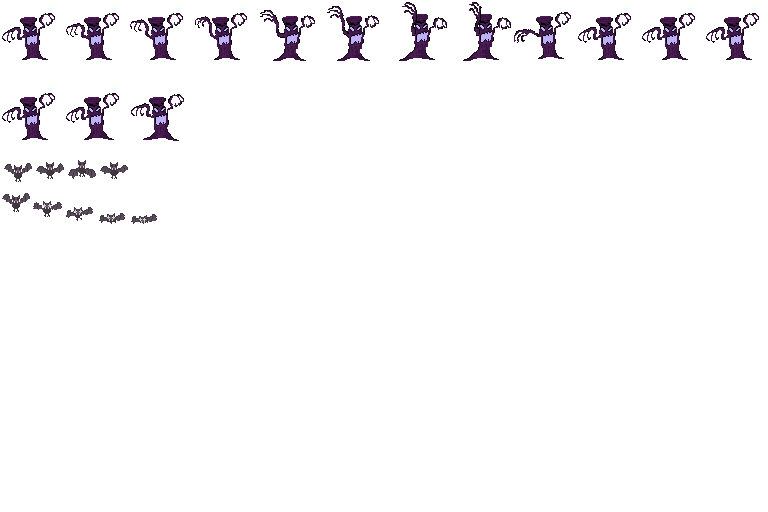
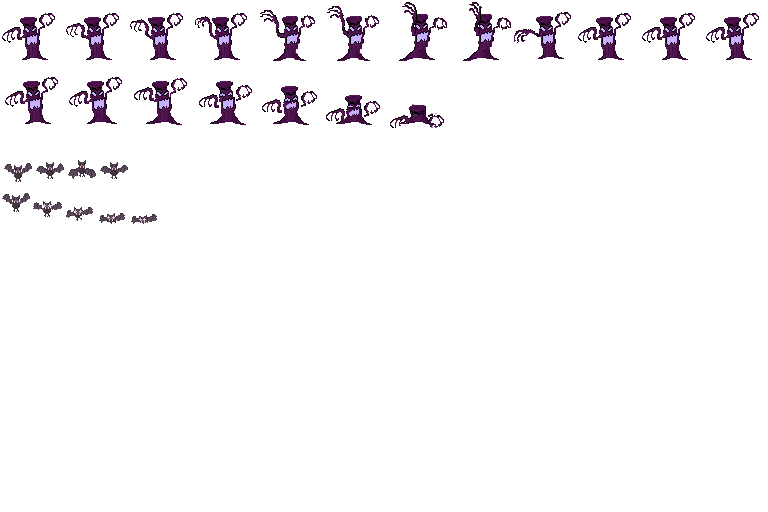
he metido el arbol

Changed region(s): [[0.0, 0.1562, 0.4062, 0.2812], [0.4375, 0.1875, 0.5938, 0.25]]

diff --git a/Game/Source/Tree.cpp b/Game/Source/Tree.cpp
@@ -1,0 +1,282 @@
+#include "Tree.h"
+#include "App.h"
+#include "Textures.h"
+#include "Audio.h"
+#include "Input.h"
+#include "Render.h"
+#include "Scene.h"
+#include "Log.h"
+#include "Point.h"
+#include "Physics.h"
+#include "Animation.h"
+#include "Pathfinding.h"
+#include "Player.h"
+#include "Map.h"
+#include "Entity.h"
+
+Tree::Tree() : Entity(EntityType::TREE)
+{
+	name.Create("tree");
+	WalkAnimIzq.PushBack({ 0, 0, 25, 25 });
+	WalkAnimIzq.PushBack({ 25, 0, 25, 25 });
+	WalkAnimIzq.PushBack({ 50, 0, 25, 25 });
+	WalkAnimIzq.PushBack({ 75, 0, 25, 25 });
+	WalkAnimIzq.PushBack({ 100, 0, 25, 25 });
+	WalkAnimIzq.PushBack({ 125, 0, 25, 25 });
+	WalkAnimIzq.PushBack({ 150, 0, 25, 25 });
+	WalkAnimIzq.PushBack({ 175, 0, 25, 25 });
+	WalkAnimIzq.speed = 0.3f;
+	WalkAnimIzq.loop = true;
+
+	WalkAnimDer.PushBack({ 175, 25, 25, 25 });
+	WalkAnimDer.PushBack({ 150, 25, 25, 25 });
+	WalkAnimDer.PushBack({ 125, 25, 25, 25 });	
+	WalkAnimDer.PushBack({ 100, 25, 25, 25 });
+	WalkAnimDer.PushBack({ 75, 25, 25, 25 });
+	WalkAnimDer.PushBack({ 50, 25, 25, 25 });	
+	WalkAnimDer.PushBack({ 25, 25, 25, 25 });
+	WalkAnimDer.PushBack({ 0, 25, 25, 25 });
+	WalkAnimDer.speed = 0.3f;
+	WalkAnimDer.loop = true;
+	
+	IdleAnimDer.PushBack({ 150, 100, 25, 25 });
+	IdleAnimDer.speed = 0.3f;
+	IdleAnimDer.loop = true;
+	IdleAnimIzq.PushBack({ 175, 100, 25, 25 });
+	IdleAnimIzq.speed = 0.3f;
+	IdleAnimIzq.loop = true;
+
+	AtackAnimIzq.PushBack({ 0, 50, 25, 25 });
+	AtackAnimIzq.PushBack({ 25, 50, 25, 25 });
+	AtackAnimIzq.PushBack({ 50, 50, 25, 25 });
+	AtackAnimIzq.PushBack({ 75, 50, 25, 25 });
+	AtackAnimIzq.PushBack({ 100, 50, 25, 25 });	
+	AtackAnimIzq.PushBack({ 125, 50, 25, 25 });
+	AtackAnimIzq.PushBack({ 150, 50, 25, 25 });
+	AtackAnimIzq.PushBack({ 175, 50, 25, 25 });
+	AtackAnimIzq.speed = 0.3f;
+	AtackAnimIzq.loop = false;
+
+	AtackAnimDer.PushBack({ 175, 75, 25, 25 });
+	AtackAnimDer.PushBack({ 150, 75, 25, 25 });
+	AtackAnimDer.PushBack({ 125, 75, 25, 25 });
+	AtackAnimDer.PushBack({ 100, 75, 25, 25 });	
+	AtackAnimDer.PushBack({ 75, 75, 25, 25 });	
+	AtackAnimDer.PushBack({ 50, 75, 25, 25 });
+	AtackAnimDer.PushBack({ 25, 75, 25, 25 });
+	AtackAnimDer.PushBack({ 0,  75, 25, 25 });
+	AtackAnimDer.speed = 0.3f;
+	AtackAnimDer.loop = false;
+
+	DeathAnim.PushBack({ 0, 100, 25, 25 });
+	DeathAnim.PushBack({ 25, 100, 25, 25 });
+	DeathAnim.PushBack({ 50, 100, 25, 25 });
+	DeathAnim.PushBack({ 75, 100, 30, 25 });
+	DeathAnim.PushBack({ 105, 100, 25, 25 });
+	DeathAnim.speed = 0.3f;
+	DeathAnim.loop = false;
+}
+
+Tree::~Tree() {
+
+}
+
+bool Tree::Awake() {
+
+
+	
+PathFinding path;
+	position.x = parameters.attribute("x").as_int();
+	position.y = parameters.attribute("y").as_int();
+	texturePath = parameters.attribute("texturepath").as_string();
+	currentAnimation = &IdleAnimDer;
+
+	return true;
+}
+
+bool Tree::Start() {
+
+	//initilize textures
+	texture = app->tex->Load(texturePath);
+	camino = app->tex->Load("Assets/Textures/camino.png");
+	torrentesound = app->audio->LoadFx("Assets/Audio/Fx/torrente.wav");
+	torrentesound2 = app->audio->LoadFx("Assets/Audio/Fx/punchtorrente.wav");
+	
+	
+
+	hp = 10;
+	//texture = app->tex->Load("Assets/personajes/Spritesheet Parca/parca.png");
+
+	pbody = app->physics->CreateCircle(position.x, position.y, 8, bodyType::DYNAMIC);
+	pbody->listener = this;
+	pbody->ctype = ColliderType::ENEMY;
+
+	
+	//pickCoinFxId = app->audio->LoadFx("Assets/Audio/Fx/retro-video-game-coin-pickup-38299.ogg");
+
+
+	return true;
+}
+
+
+bool Tree::Update(float dt) {
+	movX = 0;
+	b2Vec2 vel;
+	vel.y = -GRAVITY_Y - 25.2f;
+
+	if (app->scene->player->IsDeath == true) {
+		IsDeath = false;
+		pbody->ctype = ColliderType::ENEMY;
+	}
+
+	if (IsDeath == true) {
+		currentAnimation = &DeathAnim;
+		pbody->ctype = ColliderType::ITEM;
+		movX = 0;
+		movY = 0;
+
+	}
+	else {
+		
+
+		iPoint origin = iPoint(this->position.x, this->position.y);
+		iPoint origin2 = iPoint(app->scene->player->position.x, app->scene->player->position.y);
+
+
+		if (position.DistanceTo(app->scene->player->position) < 120) {
+
+
+			if (position.DistanceTo(app->scene->player->position) < 150 && timertoplay > 500) {
+
+				app->audio->PlayFx(torrentesound, 0);
+				timertoplay = 0;
+
+			}
+			timertoplay++;
+
+			//COSAS DEL PATHFINDING
+			app->map->pathfinding->CreatePath(app->map->WorldToMap(origin.x, origin.y), app->map->WorldToMap(origin2.x, origin2.y));
+			// DIBUJAR EL PATH
+
+			if (app->input->GetKey(SDL_SCANCODE_F9) == KEY_DOWN) {
+				pathmode = !pathmode;
+			}
+
+		}
+
+		
+
+			const DynArray<iPoint>* path = app->map->pathfinding->GetLastPath();
+			for (uint i = 0; i < path->Count(); ++i)
+			{
+				
+				iPoint pos = app->map->MapToWorld(path->At(i)->x, path->At(i)->y);
+				if (pathmode == true) {
+					app->render->DrawTexture(camino, pos.x, pos.y);
+				}
+				movX = (pos.x - this->position.x) / 25;
+				vel.x = movX;
+
+			}
+		
+	
+		
+		if (vel.x < 0) {
+			currentAnimation = &WalkAnimIzq;
+		}
+		else	if (vel.x > 0) {
+			currentAnimation = &WalkAnimDer;
+		}
+		else	if (vel.y == 0 && vel.x == 0 && currentAnimation == &WalkAnimIzq) {
+			currentAnimation = &IdleAnimIzq;
+		}
+		else if (vel.y == 0 && vel.x == 0 && currentAnimation == &WalkAnimDer) {
+			currentAnimation = &IdleAnimDer;
+		}
+
+		if (position.DistanceTo(app->scene->player->position) < 50 && currentAnimation == &WalkAnimDer) {
+			
+			currentAnimation = &AtackAnimDer;
+			app->audio->PlayFx(torrentesound2, 0);
+			
+			if (AtackAnimDer.HasFinished()) {
+				AtackAnimDer.Reset();
+				Ataca = false;
+			}
+
+		}
+		if (position.DistanceTo(app->scene->player->position) < 50 && currentAnimation == &WalkAnimIzq) {
+			currentAnimation = &AtackAnimIzq;
+			app->audio->PlayFx(torrentesound2, 0);
+
+			if (AtackAnimIzq.HasFinished()) {
+				AtackAnimIzq.Reset();
+				Ataca = false;
+			}
+
+		}
+	}
+
+	vel.x = movX;
+
+	currentAnimation->Update();
+
+	pbody->body->SetLinearVelocity(vel);
+
+	this->position.x = METERS_TO_PIXELS(pbody->body->GetTransform().p.x) - 16;
+	this->position.y = METERS_TO_PIXELS(pbody->body->GetTransform().p.y) - 16;
+	
+
+	app->render->DrawTexture(texture, position.x +3 , position.y, &currentAnimation->GetCurrentFrame());
+	return true;
+}
+
+bool Tree::CleanUp() {
+	return true;
+}
+
+void Tree::OnCollision(PhysBody* physA, PhysBody* physB) {
+	switch (physB->ctype)
+	{
+	case ColliderType::ITEM:
+		LOG("Collision ITEM");
+		//app->audio->PlayFx(pickCoinFxId);
+		break;
+	case ColliderType::PLATFORM:
+		LOG("Collision PLATFORM");
+		
+		break;
+	case ColliderType::UNKNOWN:
+		LOG("Collision UNKNOWN");
+		break;
+	case ColliderType::INSTAKILL:
+		IsDeath = true;
+		LOG("Collision INSTAKILL");
+		break;
+	case ColliderType::PLAYERATTACK:
+		IsDeath = true;
+		LOG("Collision PLAYERATTACK");
+		break;
+	}
+
+
+}
+void Tree::SetPosition(int x, int y) {
+	DeathAnim.Reset();
+	position.x = x;
+	position.y = y;
+	b2Vec2 newPos(PIXEL_TO_METERS(x), PIXEL_TO_METERS(y));
+	pbody->body->SetTransform(newPos, pbody->body->GetAngle());
+
+	IsDeath = false;
+
+}
+
+void Tree::EnemyDeath()
+{
+	currentAnimation = &DeathAnim;
+	if (currentAnimation->HasFinished() == true) {
+		SetPosition(parameters.attribute("x").as_int(), parameters.attribute("y").as_int());
+	}
+
+}

diff --git a/Game/Source/Tree.h b/Game/Source/Tree.h
@@ -1,0 +1,78 @@
+#ifndef __TREE_H__
+#define __TREE_H__
+
+#include "Entity.h"
+#include "Point.h"
+#include "SDL/include/SDL.h"
+#include "Animation.h"
+
+
+struct SDL_Texture;
+
+class Tree : public Entity
+{
+public:
+	
+	Tree();
+	
+	virtual ~Tree();
+
+	bool Awake();
+	
+	bool Start();
+
+	bool Update(float dt);
+
+	bool CleanUp();
+
+	void OnCollision(PhysBody* physA, PhysBody* physB);
+
+	
+
+	void EnemyDeath();
+
+	void SetPosition(int x, int y);
+
+
+
+public:
+	float speed;
+	const char* texturePath;
+	int hp;
+	SDL_Texture* texture = NULL;
+	SDL_Texture* camino = NULL;
+	Animation* currentAnimation = nullptr;
+	PhysBody* pbody;
+	//int pickCoinFxId;
+
+	float timertoplay;
+
+	uint torrentesound;
+	uint torrentesound2;
+
+	PhysBody* ataque;
+
+
+	float movX;
+	float movY;
+	float velY;	
+	bool IsDeath = false;
+	bool pathmode = false;
+
+	bool Ataca;
+
+	Animation IdleAnimIzq;
+	Animation IdleAnimDer;
+	Animation WalkAnimIzq;
+	Animation WalkAnimDer;
+	Animation JumpAnim;
+	Animation AtackAnimDer;
+	Animation AtackAnimIzq;
+	Animation DeathAnim;
+	Animation JumpAnimIzq;
+
+
+
+};
+
+#endif // __TREE_H__

diff --git a/Game/Source/Entity.h b/Game/Source/Entity.h
@@ -15,7 +15,8 @@ enum class EntityType
 	ITEM,
 	UNKNOWN,
 	ENEMY,
-	BAT
+	BAT,
+	TREE
 };
 
 class Entity
